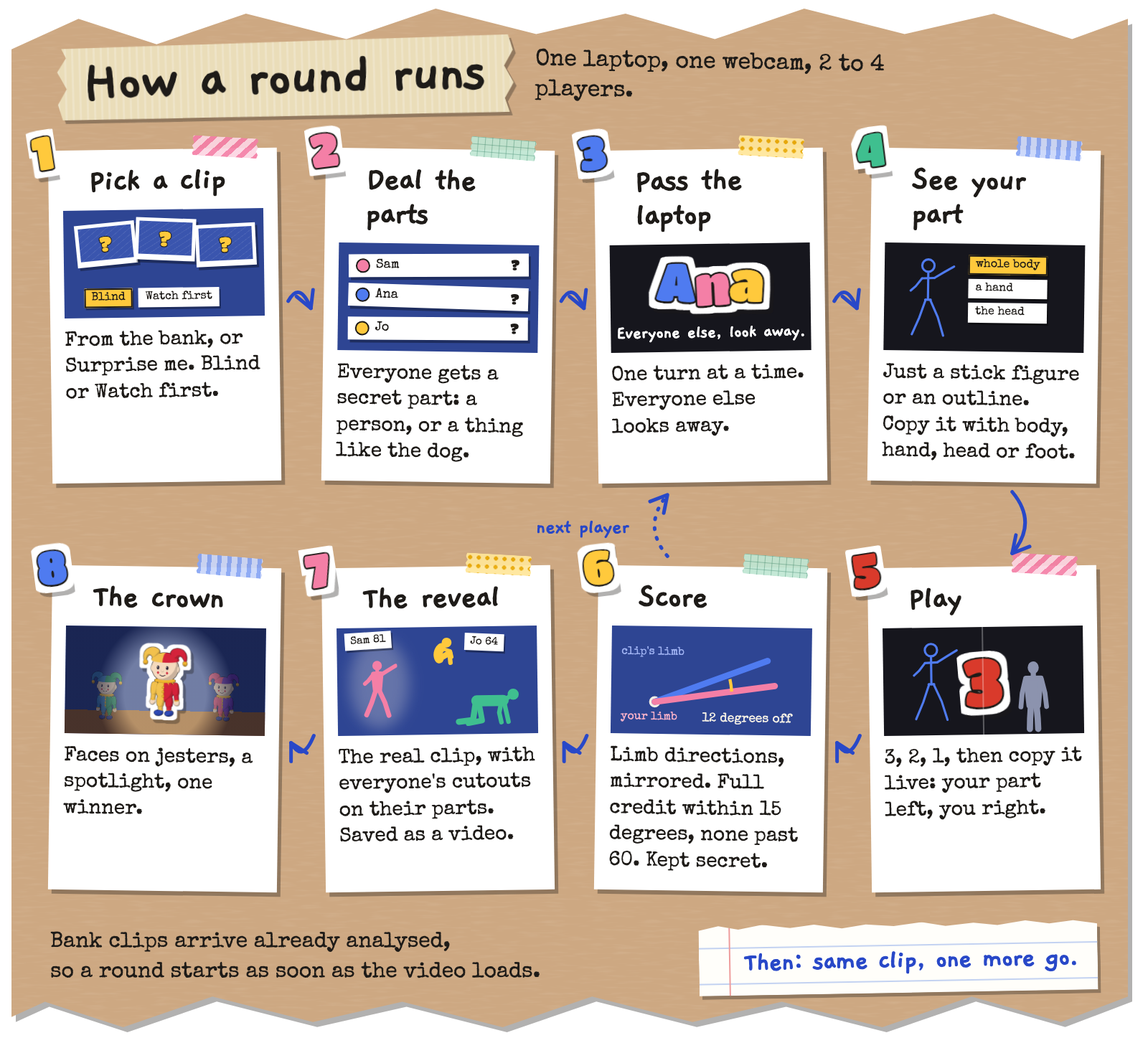
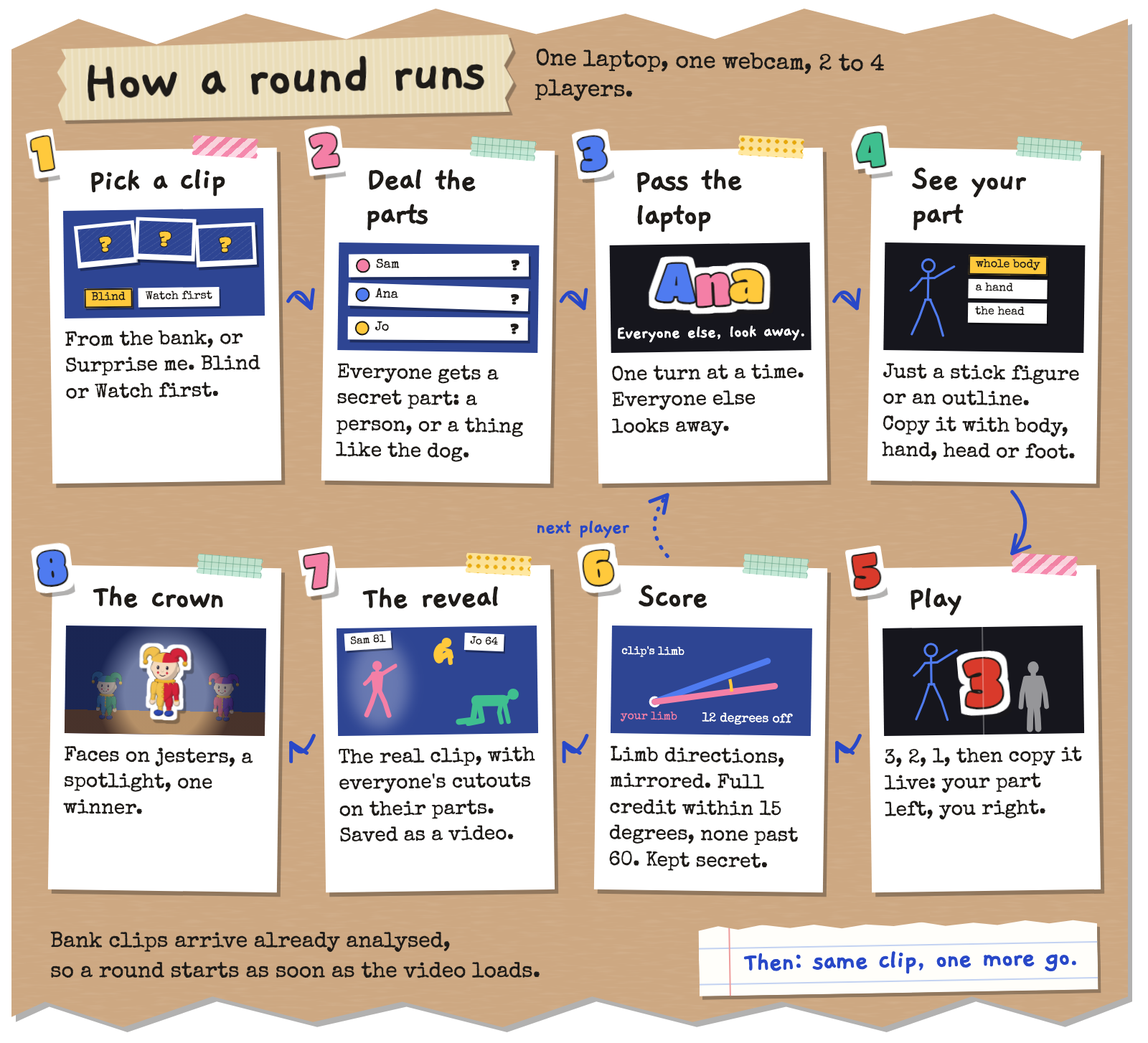
Devpost kit: follow docs/design/look-parts.md (no all caps, no new colours) and match main as of 9a97362 (online play, Engine 0.9.0, 249 tests)

diff --git a/app/public/devpost/preview.html b/app/public/devpost/preview.html
@@ -54,18 +54,19 @@
 <p>The second idea came from party games. What if nobody knows what they are copying until the end? You copy a stick figure, sure you are the dancer, and the reveal shows you were the dog. <mark title="Aaron: confirm or remove before pasting">[check]</mark></p>
 <p>And one honest line about who it is for: it gets a group of friends moving around one laptop, with no equipment beyond a webcam.</p>
 <p class="pic"><img src="heading-what.png" alt="What it does"></p>
-<ul><li><strong>Pick a clip</strong> from the video bank, or press Surprise me, and pick a mode: <strong>Blind</strong>, where nobody sees the clip until the end, or <strong>Watch first</strong>. <mark title="Aaron: confirm or remove before pasting">[check: which clips are in the live bank]</mark></li><li><strong>2 to 4 players</strong> type their names, and Jester deals each one a <strong>secret part</strong> of the clip: a person in it, or a thing like a dog or a ball. <mark title="Aaron: confirm or remove before pasting">[check: the live bank has clips with things in them]</mark></li><li><strong>Pass the laptop.</strong> &quot;Everyone else, look away.&quot; Each player sees only their part, drawn as a stick figure (a person) or an outline (a thing). They choose to copy it with their whole body, a hand, their head or a foot, and can watch it once before it counts.</li><li><strong>3, 2, 1, copy.</strong> The part plays on the left, the player's camera on the right. The clip can be slowed to 0.75 or 0.5 speed.</li><li><strong>The reveal.</strong> After a drum roll, the original clip plays, then plays again with every player's cutout drawn on their part, with names and scores. It is recorded in the browser as a video you can save or send.</li><li><strong>The crown.</strong> Each player's face goes on a jester, a spotlight sweeps across them, and the winner gets crowned.</li><li><strong>Submit your own clip.</strong> It goes into a review queue, and a person checks every clip before it joins the bank.</li></ul>
+<ul><li><strong>Pick a clip</strong> from the video bank, or press Surprise me, and pick a mode: <strong>Blind</strong>, where nobody sees the clip until the end, or <strong>Watch first</strong>. <mark title="Aaron: confirm or remove before pasting">[check: which clips are in the live bank]</mark></li><li><strong>2 to 4 players</strong> type their names, and Jester deals each one a <strong>secret part</strong> of the clip: a person in it, or a thing like a dog or a ball. <mark title="Aaron: confirm or remove before pasting">[check: the live bank has clips with things in them]</mark></li><li><strong>Pass the laptop.</strong> &quot;Everyone else, look away.&quot; Each player sees only their part, drawn as a stick figure (a person) or an outline (a thing). They choose to copy it with their whole body, a hand, their head or a foot, and can watch it once before it counts.</li><li><strong>3, 2, 1, copy.</strong> The part plays on the left, the player's camera on the right. The clip can be slowed to 0.75 or 0.5 speed.</li><li><strong>The reveal.</strong> After a drum roll, the original clip plays, then plays again with every player's cutout drawn on their part, with names and scores. It is recorded in the browser as a video you can save or send.</li><li><strong>The crown.</strong> Each player's face goes on a jester, a spotlight sweeps across them, and the winner gets crowned.</li><li><strong>Play with friends online.</strong> Make a room or join one with its 4-letter code. Each player plays their own part on their own device, and everyone gets the same reveal and results. Online rounds use our two built-in clips for now. <mark title="Aaron: confirm or remove before pasting">[check: tried between two devices]</mark></li><li><strong>Submit your own clip.</strong> It goes into a review queue, and a person checks every clip before it joins the bank.</li></ul>
 <p class="pic"><img src="diagram-round.png" alt="How a round runs, from picking a clip to the crown"></p>
+<p>Online, each player is on their own device, so step 3 is skipped.</p>
 <p class="pic"><img src="heading-how.png" alt="How we built it"></p>
 <p>Three parts, three owners, and one shared format agreed in the first hours: <code>pose-timeline/1</code>, 33 body points per frame with real time stamps. Everything runs in the browser.</p>
 <p><strong>The clip side (Aaron)</strong> turns a video into one guide per subject.</p>
 <p class="pic"><img src="diagram-clip-to-guide.png" alt="How a clip becomes a guide"></p>
 <ul><li>The file's SHA-256 is its name. A clip seen before loads its saved analysis from the browser, so the same clip always gives the same guide.</li><li>Frames are decoded at fixed times, 15 a second, with Mediabunny on WebCodecs. If the browser cannot decode the file, it falls back to stepping a video element.</li><li>MediaPipe Pose Landmarker finds up to 4 people in every frame, and each person's mask becomes an outline. Clips prepared for the bank also run an object detector (EfficientDet-Lite0) on every 6th frame to find animals and balls.</li><li>Boxes are linked into tracks by overlap. A camera cut ends every track, and a person hidden for up to 3 seconds is joined back up.</li><li>Tracks are ranked by size, how central they are, how much they move and their time on screen. A clip that cannot work is refused with a plain reason, such as &quot;No person found in this clip.&quot;</li><li>Clips in the bank are analysed once ahead of time, so a round starts as soon as the video loads.</li></ul>
 <p><strong>The player side (Lisa)</strong> reads the player from the webcam.</p>
-<ul><li>MediaPipe Pose Landmarker in video mode. It tries the GPU first, then the CPU, and drops to the lite model below 18 frames a second.</li><li>Hand Landmarker adds fingers to the mirror view. A One Euro filter smooths both.</li><li>The models are cached in the browser and start loading on the start screen.</li><li>Lisa also built the rooms and the recording behind the reveal video. <mark title="Aaron: confirm or remove before pasting">[check]</mark></li></ul>
+<ul><li>MediaPipe Pose Landmarker in video mode. It tries the GPU first, then the CPU, and drops to the lite model below 18 frames a second.</li><li>Hand Landmarker adds fingers to the mirror view. A One Euro filter smooths both.</li><li>The models are cached in the browser and start loading on the start screen.</li><li>Online rooms run over Supabase Realtime. Each device pings every 2 seconds, so a closed tab drops out after 10 seconds and the host role passes on, and every device starts the round at one time synced to the host's clock.</li><li>Lisa also built the recording behind the reveal video. <mark title="Aaron: confirm or remove before pasting">[check]</mark></li></ul>
 <p><strong>The scoring engine and the game (Alex)</strong> compare the two motions and run the round.</p>
 <ul><li>The blind game deals the parts, runs each turn and cuts out the body part each player played from the tracker's mask, about 15 times a second, for the reveal.</li></ul>
-<ul><li>It compares the directions of 16 limbs, not positions, so height, body size and distance from the camera do not matter. The player is mirrored.</li><li>A limb gets full credit within 15 degrees and none past 60.</li><li>Both timelines are resampled to 30 frames a second, and one reaction delay is found for the whole turn, from 0.2 seconds early to 1.2 seconds late.</li><li>The score is how much better you did than standing still would, scaled by timing. When the clip travels across the frame, a quarter of the score comes from where you are.</li><li>A limb the clip uses but your camera cannot see caps the score at 50.</li><li>Things, and single body parts, are scored on their path instead: how well your movement follows theirs, plus jumps, crouches and moves left or right.</li></ul>
+<ul><li>It compares the directions of 16 limbs, not positions, so height, body size and distance from the camera do not matter. The player is mirrored.</li><li>A limb gets full credit within 15 degrees and none past 60.</li><li>Both timelines are resampled to 30 frames a second, and one reaction delay is found for the whole turn, from 0.2 seconds early to 1.2 seconds late.</li><li>The score pays for accuracy above what standing still would earn. When you really move with the clip, accuracy itself counts too, so standing still still scores low. Timing scales the result, and when the clip travels across the frame, a quarter of the score comes from where you are.</li><li>A limb the clip uses but your camera cannot see caps the score at 50.</li><li>Things, and single body parts, are scored on their path instead: how well your movement follows theirs, plus jumps, crouches and moves left or right.</li></ul>
 <p><strong>The look (Aaron)</strong> is a scrapbook theatre. It has kraft paper, headings on masking tape, the jester's notes in blue ballpoint, ticket stubs for buttons, and a shoebox stood on its side as the stage. The jester himself is a 3D character built by a Python script in Blender and rendered to sprite strips in four colours. At the crown, each player's face, cropped from their own turn, goes on their jester.</p>
 <p class="pic"><img src="track-entertainment.png" alt="Main track: Entertainment"></p>
 <h3>Why Jester is entertainment</h3>
@@ -73,13 +74,13 @@
 <p class="pic"><img src="heading-stack.png" alt="Tech stack"></p>
 <table><thead><tr><th>Part</th><th>What we used</th></tr></thead><tbody><tr><td>Language and build</td><td>TypeScript 5.7, Vite 6</td></tr><tr><td>Body tracking</td><td>MediaPipe Tasks Vision 0.10.14: Pose Landmarker (lite, full), Hand Landmarker</td></tr><tr><td>Things in clips</td><td>MediaPipe Object Detector with EfficientDet-Lite0</td></tr><tr><td>Video decoding</td><td>Mediabunny on WebCodecs, with a video element fallback</td></tr><tr><td>Saved analyses</td><td>IndexedDB, keyed by the file's SHA-256</td></tr><tr><td>Reveal video</td><td>Canvas capture and MediaRecorder (WebM)</td></tr><tr><td>Clip submissions and rooms</td><td>Supabase (Storage, a table, Realtime)</td></tr><tr><td>Hosting</td><td>Vercel</td></tr><tr><td>The jester</td><td>Blender 5.2, scripted in Python, rendered with EEVEE</td></tr><tr><td>Fonts</td><td>Gaegu, Special Elite, Titan One (SIL Open Font License)</td></tr><tr><td>Tests</td><td>Node's built-in test runner</td></tr></tbody></table>
 <p class="pic"><img src="heading-challenges.png" alt="Challenges"></p>
-<ul><li><strong>Same clip in, same guide out.</strong> Our first stand-in read the clip from a playing video, timed by the wall clock, so the same file gave different guides. Now frames are decoded at fixed times and the analysis is saved under the file's fingerprint.</li><li><strong>One dancer, many tracks.</strong> People cross, turn and hide behind each other, and a tracker loses them. Early runs split one dancer into a pile of short tracks. Rejoining after gaps of up to 3 seconds, plus cut detection, fixed most of it. <mark title="Aaron: confirm or remove before pasting">[check]</mark></li><li><strong>Standing still must not score.</strong> A naive pose score gives points for doing nothing. The engine works out what standing still would earn on each clip and scores only what you add above it.</li><li><strong>Laptop cameras rarely see legs.</strong> Whole-body parts wait until you fit in frame. A hidden limb caps the score instead of being skipped, and you can choose to play a part with a hand, your head or a foot.</li><li><strong>Fast motion.</strong> At 15 frames a second, a sudden move can fall between frames. <mark title="Aaron: confirm or remove before pasting">[check]</mark></li><li><strong>Clips we are allowed to use.</strong> Most fun clips belong to someone else. No video lives in our repo, and the bank only takes clips that pass review. <mark title="Aaron: confirm or remove before pasting">[check]</mark></li></ul>
+<ul><li><strong>Same clip in, same guide out.</strong> Our first stand-in read the clip from a playing video, timed by the wall clock, so the same file gave different guides. Now frames are decoded at fixed times and the analysis is saved under the file's fingerprint.</li><li><strong>One dancer, many tracks.</strong> People cross, turn and hide behind each other, and a tracker loses them. Early runs split one dancer into a pile of short tracks. Rejoining after gaps of up to 3 seconds, plus cut detection, fixed most of it. <mark title="Aaron: confirm or remove before pasting">[check]</mark></li><li><strong>Standing still must not score, but moving must.</strong> A naive pose score gives points for doing nothing, so the engine scores only what you add above standing still. Then blind mode scored every player 0 on gentle dance clips, where standing still already matches most of the pose. Engine 0.9.0 measures how much you actually moved with the clip, and when you did, counts your accuracy directly.</li><li><strong>Laptop cameras rarely see legs.</strong> Whole-body parts wait until you fit in frame. A hidden limb caps the score instead of being skipped, and you can choose to play a part with a hand, your head or a foot.</li><li><strong>Fast motion.</strong> At 15 frames a second, a sudden move can fall between frames. <mark title="Aaron: confirm or remove before pasting">[check]</mark></li><li><strong>Clips we are allowed to use.</strong> Most fun clips belong to someone else. No video lives in our repo, and the bank only takes clips that pass review. <mark title="Aaron: confirm or remove before pasting">[check]</mark></li></ul>
 <p class="pic"><img src="heading-wins.png" alt="Accomplishments"></p>
-<ul><li>A clip nobody prepared becomes a playable level in the browser. No server ever analyses video.</li><li>Things count, not just people: a dog or a ball can be your secret part.</li><li>The reveal puts everyone's cutout on the original clip and records it to a video you can send.</li><li>235 automated tests pass: 104 on the clip side, 63 in the engine, 62 in our first prototype and 6 in the evaluation tools.</li><li>A jester host of our own, from a Blender script, who wears each player's face at the crown.</li></ul>
+<ul><li>A clip nobody prepared becomes a playable level in the browser. No server ever analyses video.</li><li>Things count, not just people: a dog or a ball can be your secret part.</li><li>The reveal puts everyone's cutout on the original clip and records it to a video you can send.</li><li>249 automated tests pass: 104 on the clip side, 71 in the engine, 66 in our first prototype and rooms, and 8 in the evaluation tools.</li><li>A jester host of our own, from a Blender script, who wears each player's face at the crown.</li></ul>
 <p class="pic"><img src="heading-learned.png" alt="What we learned"></p>
 <ul><li><strong>Measure with code, decide with rules.</strong> Every number in a guide comes from the tracker, so a score can be explained.</li><li><strong>Repeatable takes design.</strong> It took fixed decode times, a fingerprint and a saved analysis, not luck.</li><li><strong>Compare directions, not positions.</strong> It makes size and distance from the camera disappear.</li><li><strong>Agree on the data first.</strong> One shared pose format, settled early, let three people build three parts at the same time. <mark title="Aaron: confirm or remove before pasting">[check]</mark></li></ul>
 <p class="pic"><img src="heading-next.png" alt="What's next"></p>
-<ul><li><strong>An AI check for new clips.</strong> One vision model call per clip would name it, pick the main subject and word the refusals. It is designed, not built.</li><li><strong>Paste a link instead of a file.</strong> Grabbing a YouTube or Instagram clip from a browser tab already works on our lab page, but not yet in the game.</li><li><strong>Duels online.</strong> Head-to-head rounds over the internet are built on a lab page, not yet in the game.</li><li><strong>A bigger bank,</strong> filled by players through Submit your own.</li></ul>
+<ul><li><strong>An AI check for new clips.</strong> One vision model call per clip would name it, pick the main subject and word the refusals. It is designed, not built.</li><li><strong>Paste a link instead of a file.</strong> Grabbing a YouTube or Instagram clip from a browser tab already works on our lab page, but not yet in the game.</li><li><strong>Any clip online.</strong> Online rounds use our two built-in clips today; next is any clip from the bank.</li><li><strong>Duels.</strong> Head-to-head rounds, best of several, are built on a lab page, not yet in the game.</li><li><strong>A bigger bank,</strong> filled by players through Submit your own.</li></ul>
 <h2>Links</h2>
 <ul><li>Play it: <a href="https://jester-pi.vercel.app">https://jester-pi.vercel.app</a></li><li>Code: <a href="https://github.com/aaron-sulbaran/jester">https://github.com/aaron-sulbaran/jester</a></li><li>Demo video: <mark title="Aaron: confirm or remove before pasting">[check: paste the YouTube link]</mark></li></ul>
 <h2>Credits</h2>

diff --git a/art/devpost/diagram-round.html b/art/devpost/diagram-round.html
@@ -13,10 +13,10 @@
   .card h2 { font-size: 48px; }
   .card p { font-size: 28px; }
   .card .art { height: 150px; }
-  .sil { position: absolute; color: #F3EEE4; }
+  .sil { position: absolute; color: var(--paper); }
   .sil svg { display: block; width: 100%; height: 100%; overflow: visible; }
   .mini { position: absolute; width: 30%; padding: 5px 5px 8px; background: var(--photo); box-shadow: 3px 4px 0 rgba(0,0,0,.35); }
-  .mini i { display: grid; place-items: center; aspect-ratio: 16 / 10; background: #3A55AE repeating-linear-gradient(-35deg, transparent 0 6px, rgba(255,255,255,.08) 6px 7px); font: 400 28px/1 var(--sticker); font-style: normal; color: var(--ticket); -webkit-text-stroke: 3px var(--ink); paint-order: stroke fill; }
+  .mini i { display: grid; place-items: center; aspect-ratio: 16 / 10; background: var(--backdrop) repeating-linear-gradient(-35deg, transparent 0 6px, rgba(255,255,255,.08) 6px 7px); font: 400 28px/1 var(--sticker); font-style: normal; color: var(--ticket); -webkit-text-stroke: 3px var(--ink); paint-order: stroke fill; }
   .chips { position: absolute; display: flex; gap: 8px; }
   .chips span { padding: 4px 10px; background: var(--photo); font: 400 16px/1.2 var(--type); box-shadow: 2px 3px 0 rgba(0,0,0,.35); white-space: nowrap; }
   .chips span.on { background: var(--ticket); box-shadow: 2px 3px 0 rgba(0,0,0,.35), inset 0 0 0 2px var(--ink); }
@@ -27,7 +27,7 @@
   .look-away { position: absolute; left: 0; right: 0; bottom: 14px; text-align: center; font: 700 26px/1 var(--hand); color: var(--photo); letter-spacing: -.03em; }
   .count { position: absolute; left: 50%; top: 50%; translate: -50% -50%; font: 400 92px/1 var(--sticker); color: var(--stamp); -webkit-text-stroke: 6px var(--ink); paint-order: stroke fill; filter: url(#die-cut); rotate: -4deg; }
   .split::after { content: ""; position: absolute; top: 0; bottom: 0; left: calc(50% - 1px); width: 2px; background: rgba(255,255,255,.3); }
-  .blur { position: absolute; border-radius: 50%; background: rgba(243, 238, 228, .28); filter: blur(10px); }
+  .blur { position: absolute; border-radius: 50%; background: rgba(255, 255, 255, .28); filter: blur(10px); }
   .score-tag { position: absolute; padding: 2px 8px; background: var(--photo); font: 400 15px/1.3 var(--type); white-space: nowrap; box-shadow: 2px 3px 0 rgba(0,0,0,.35); }
   .spot { position: absolute; inset: 0; background: radial-gradient(ellipse 34% 70% at 50% 62%, rgba(255, 244, 200, .32) 0 60%, rgba(10, 12, 30, .55) 100%); }
   .crown-j { position: absolute; top: -14px; width: 150px; left: calc(50% - 75px); filter: url(#sticker); }
@@ -120,7 +120,7 @@
     </section>
 
     <section class="card" data-n="4" style="grid-row:1;grid-column:4">
-      <span class="num" style="--c:var(--p4)">4</span><i class="washi w-blue"></i>
+      <span class="num" style="--c:var(--p4)">4</span><i class="washi w-mint"></i>
       <h2>See your part</h2>
       <div class="art" style="background:#16161D">
         <span class="sil" style="left:8%;top:8%;width:28%;height:84%;color:var(--p2)"><svg><use href="#stick" /></svg></span>
@@ -134,7 +134,7 @@
       <h2>Play</h2>
       <div class="art split" style="background:#16161D">
         <span class="sil" style="left:10%;top:8%;width:28%;height:84%;color:var(--p2)"><svg><use href="#stick" /></svg></span>
-        <span class="sil" style="left:62%;top:12%;width:26%;height:96%;color:#8C93AE"><svg><use href="#player" /></svg></span>
+        <span class="sil" style="left:62%;top:12%;width:26%;height:96%;color:var(--photo);opacity:.55"><svg><use href="#player" /></svg></span>
         <span class="count">3</span>
       </div>
       <p>3, 2, 1, then copy it live: your part left, you right.</p>
@@ -145,13 +145,13 @@
       <h2>Score</h2>
       <div class="art">
         <svg viewBox="0 0 320 150" style="position:absolute;inset:0;width:100%;height:100%">
-          <circle cx="70" cy="110" r="9" fill="#F3EEE4"/>
+          <circle cx="70" cy="110" r="9" fill="#FFFEFA"/>
           <path d="M70 110 L250 42" stroke="#4F7BF0" stroke-width="10" stroke-linecap="round"/>
           <path d="M70 110 L262 82" stroke="#F47FA6" stroke-width="10" stroke-linecap="round"/>
           <path d="M190 72 A 124 124 0 0 1 193 92" fill="none" stroke="#FFC93C" stroke-width="5"/>
-          <text x="146" y="140" style="font: 400 20px 'Special Elite'; fill: #F3EEE4">12 degrees off</text>
-          <text x="16" y="34" style="font: 400 18px 'Special Elite'; fill: #9FB2F2">clip's limb</text>
-          <text x="16" y="138" style="font: 400 18px 'Special Elite'; fill: #F7B1C9">your limb</text>
+          <text x="146" y="140" style="font: 400 20px 'Special Elite'; fill: #FFFEFA">12 degrees off</text>
+          <text x="16" y="34" style="font: 400 18px 'Special Elite'; fill: #FFFEFA">clip's limb</text>
+          <text x="16" y="138" style="font: 400 18px 'Special Elite'; fill: #F47FA6">your limb</text>
         </svg>
       </div>
       <p>Limb directions, mirrored. Full credit within 15 degrees, none past 60. Kept secret.</p>
@@ -172,7 +172,7 @@
     </section>
 
     <section class="card" data-n="8" style="grid-row:2;grid-column:1">
-      <span class="num" style="--c:var(--p2)">8</span><i class="washi w-blue"></i>
+      <span class="num" style="--c:var(--p2)">8</span><i class="washi w-mint"></i>
       <h2>The crown</h2>
       <div class="art" style="background:var(--backdrop) linear-gradient(transparent 78%, #93613A 78%)">
         <img class="side-j" style="left:2%" src="../../app/public/look/jester/alex-still.webp" alt="" />

diff --git a/art/devpost/heading.html b/art/devpost/heading.html
@@ -45,7 +45,7 @@
   .s-challenges .problem { position: absolute; padding: 12px 20px; background: var(--photo); color: var(--stamp); box-shadow: var(--lift); font: 400 26px/1.2 var(--type); white-space: nowrap; }
   .s-challenges .p1 { right: 96px; top: 40px; rotate: 3deg; }
   .s-challenges .p2 { right: 130px; top: 134px; rotate: -2.5deg; }
-  .s-challenges .stampmark { position: absolute; right: 455px; top: 62px; white-space: nowrap; rotate: -12deg; padding: 6px 16px 4px; border: 5px solid var(--stamp); border-radius: 8px; color: var(--stamp); font: 400 38px/1 var(--sticker); letter-spacing: .04em; opacity: .9; }
+  .s-challenges .stampmark { position: absolute; right: 455px; top: 62px; white-space: nowrap; rotate: -12deg; padding: 6px 16px 6px; border: 5px solid var(--stamp); border-radius: 8px; color: var(--stamp); font: 400 40px/1 var(--sticker); opacity: .9; }
 
   /* Accomplishments: the score sticker everyone chases. */
   .s-wins .score { position: absolute; right: 110px; top: 44px; rotate: 6deg; font-size: 124px; }
@@ -80,21 +80,21 @@
     what: { act: "Act 2", title: "What it does", tapes: ["w-mint", "w-pink"], prop: `
       <div class="scrap note-wrap"><p class="note">Copy me.<br>I'm watching.</p></div>
       <div class="puppet"><span class="stick"></span><img src="../../app/public/look/jester/classic-still.webp" alt="" /></div>` },
-    how: { act: "Act 3", title: "How we built it", tapes: ["w-dots", "w-blue"], prop: `
+    how: { act: "Act 3", title: "How we built it", tapes: ["w-dots", "w-mint"], prop: `
       <div class="parts">
         <span class="tag" style="font-size:26px"><i class="dot" style="--c:var(--p3)"></i>the clip side</span>
         <span class="tag" style="font-size:26px"><i class="dot" style="--c:var(--p1)"></i>the player side</span>
         <span class="tag" style="font-size:26px"><i class="dot" style="--c:var(--p2)"></i>the scoring engine</span>
       </div>` },
-    stack: { act: "Act 4", title: "Tech stack", tapes: ["w-blue", "w-mint"], prop: `
+    stack: { act: "Act 4", title: "Tech stack", tapes: ["w-pink", "w-mint"], prop: `
       <div class="pile">
         <span class="tag" style="left:250px;top:8px;rotate:4deg">MediaPipe</span>
         <span class="tag" style="left:30px;top:30px;rotate:-5deg">TypeScript</span>
         <span class="tag" style="left:120px;top:110px;rotate:2deg">WebCodecs</span>
         <span class="tag" style="left:340px;top:100px;rotate:-3deg">Supabase</span>
       </div>` },
-    challenges: { act: "Act 5", title: "Challenges", tapes: ["w-pink", "w-blue"], prop: `
-      <span class="stampmark">TRY AGAIN</span>
+    challenges: { act: "Act 5", title: "Challenges", tapes: ["w-pink", "w-dots"], prop: `
+      <span class="stampmark">Try again</span>
       <span class="problem p1">That did not work.</span>
       <span class="problem p2">No person found in this clip.</span>` },
     wins: { act: "Act 6", title: "Accomplishments", tapes: ["w-dots", "w-pink"], prop: `
@@ -102,8 +102,8 @@
       <span class="score big-sticker">100%</span>` },
     learned: { act: "Act 7", title: "What we learned", tapes: ["w-mint", "w-dots"], prop: `
       <div class="scrap note-wrap"><p class="note">Same clip in,<br>same guide out.</p></div>` },
-    next: { act: "Act 8", title: "What's next", tapes: ["w-blue", "w-pink"], prop: `
-      <div class="ticket-wrap"><div class="ticket"><span><small>ADMIT ONE</small>Next show</span><i class="stub"></i></div></div>` },
+    next: { act: "Act 8", title: "What's next", tapes: ["w-mint", "w-pink"], prop: `
+      <div class="ticket-wrap"><div class="ticket"><span><small>Admit one</small>Next show</span><i class="stub"></i></div></div>` },
   };
   const key = new URLSearchParams(location.search).get("s") || "inspiration";
   const s = SECTIONS[key];

diff --git a/art/devpost/diagram-guide.html b/art/devpost/diagram-guide.html
@@ -10,14 +10,14 @@
   body { width: 1600px; }
   .cards { grid-template-columns: repeat(3, 1fr); gap: 110px 90px; }
   .ink { color: var(--photo); }
-  .sil { position: absolute; color: #F3EEE4; }
+  .sil { position: absolute; color: var(--paper); }
   .sil svg, .art svg.full { display: block; width: 100%; height: 100%; overflow: visible; }
   .ring { filter: url(#ring); }
   .hash { position: absolute; left: 16px; bottom: 12px; padding: 6px 12px; background: var(--photo); font: 400 19px/1 var(--type); rotate: -2deg; box-shadow: 3px 4px 0 rgba(0,0,0,.35); }
   .saved { position: absolute; right: 14px; top: 14px; rotate: 8deg; padding: 4px 12px 2px; border: 4px solid var(--ticket); border-radius: 6px; color: var(--ticket); font: 400 24px/1 var(--sticker); }
   /* Film strip */
   .strip { position: absolute; inset: 18px 0; background: #16161D; display: flex; gap: 10px; padding: 22px 12px; }
-  .strip::before, .strip::after { content: ""; position: absolute; left: 0; right: 0; height: 12px; background: radial-gradient(circle, #F3EEE4 3px, transparent 3.5px) 0 0 / 18px 12px; }
+  .strip::before, .strip::after { content: ""; position: absolute; left: 0; right: 0; height: 12px; background: radial-gradient(circle, var(--paper) 3px, transparent 3.5px) 0 0 / 18px 12px; }
   .strip::before { top: 4px; } .strip::after { bottom: 4px; }
   .strip i { position: relative; flex: 1; background: var(--backdrop); }
   .strip i .sil { inset: 8% 18%; }
@@ -92,7 +92,7 @@
         <span class="sil" style="left:44%;top:6%;width:13%;height:24%"><svg><use href="#ball" /></svg></span>
         <span class="sil" style="left:50%;top:44%;width:42%;height:46%"><svg><use href="#dog" /></svg></span>
         <span class="hash">sha-256 9f3c 81ab 0e57...</span>
-        <span class="saved">SEEN IT</span>
+        <span class="saved">Seen it</span>
       </div>
       <p>The file's SHA-256. A clip seen before loads its saved analysis: same clip, same guide.</p>
     </section>
@@ -116,17 +116,17 @@
       <span class="num" style="--c:var(--p2)">3</span><i class="washi w-mint"></i>
       <h2>Find</h2>
       <div class="art">
-        <span class="sil" style="left:10%;top:14%;width:24%;height:80%;color:#7B8BC4"><svg><use href="#throw" /></svg></span>
+        <span class="sil" style="left:10%;top:14%;width:24%;height:80%;color:var(--photo);opacity:.4"><svg><use href="#throw" /></svg></span>
         <span class="sil" style="left:10%;top:14%;width:24%;height:80%;color:var(--p1)"><svg><use href="#stick" /></svg></span>
         <span class="bx" style="--c:var(--p1);left:6%;top:24%;width:32%;height:72%"><b>person 1</b></span>
-        <span class="sil" style="left:50%;top:42%;width:42%;height:46%;color:#7B8BC4"><svg><use href="#dog" /></svg></span>
+        <span class="sil" style="left:50%;top:42%;width:42%;height:46%;color:var(--photo);opacity:.4"><svg><use href="#dog" /></svg></span>
         <span class="bx" style="--c:var(--p4);left:48%;top:42%;width:46%;height:50%"><b>dog</b></span>
       </div>
       <p>MediaPipe finds up to 4 people in every frame. Bank clips also look for animals and balls.</p>
     </section>
 
     <section class="card" data-n="4" style="grid-row:2;grid-column:3">
-      <span class="num" style="--c:var(--p4)">4</span><i class="washi w-blue"></i>
+      <span class="num" style="--c:var(--p4)">4</span><i class="washi w-mint"></i>
       <h2>Follow</h2>
       <div class="art">
         <svg class="full" viewBox="0 0 400 170" preserveAspectRatio="none" style="position:absolute;inset:0">

diff --git a/art/devpost/track.html b/art/devpost/track.html
@@ -16,7 +16,7 @@
   .ticket .stub { right: 30px; width: 170px; background-size: 96px auto; }
   .ticket .stub b { position: absolute; left: 0; right: 0; bottom: 14px; text-align: center; font: 400 20px/1 var(--type); }
   .words { display: grid; gap: 4px; min-width: 0; }
-  .kicker { font: 400 28px/1 var(--type); letter-spacing: .06em; text-transform: uppercase; }
+  .kicker { font: 400 30px/1 var(--type); }
   .name { margin: 0; font: 400 96px/1 var(--sticker); padding: 2px 6px 10px; white-space: nowrap; }
   .line { font: 400 24px/1.2 var(--type); }
   .puppet { right: 52px; top: 6px; width: 262px; height: 262px; rotate: 4deg; }
@@ -31,7 +31,7 @@
     <h1 class="name"><span data-letters="Entertainment" data-param="name"></span></h1>
     <span class="line" data-param="line">HackPrinceton Fall 2026</span>
   </div>
-  <i class="stub"><b>ADMIT ONE</b></i>
+  <i class="stub"><b>Admit one</b></i>
 </div></div>
 <i class="washi w-pink w1"></i><i class="washi w-dots w2"></i>
 <div class="puppet"><span class="stick"></span><img src="../../app/public/look/jester/classic-still.webp" alt="" /></div>

diff --git a/art/devpost/devpost.css b/art/devpost/devpost.css
@@ -25,7 +25,6 @@
   --floor-c: #93613A;
   --backdrop: #2E4593;
   --wood: #EDCB8E;
-  --soft: #6B5A48;
   --hand: "Gaegu", "Comic Sans MS", cursive;
   --type: "Special Elite", "Courier New", serif;
   --sticker: "Titan One", "Arial Black", sans-serif;
@@ -57,7 +56,6 @@ body { background: #FFFFFF; color: var(--ink); font: 400 22px/1.35 var(--type); 
 .w-pink { background: repeating-linear-gradient(-45deg, #F47FA6 0 7px, #FCD5E2 7px 15px); }
 .w-mint { background-color: #BFE6D3; background-image: linear-gradient(rgba(36, 120, 88, .38) 1.5px, transparent 1.5px), linear-gradient(90deg, rgba(36, 120, 88, .38) 1.5px, transparent 1.5px); background-size: 10px 10px; }
 .w-dots { background: #FFE69A radial-gradient(circle, #E9A800 2.6px, transparent 3.1px) 0 0 / 12px 12px; }
-.w-blue { background: #C9D6FA repeating-linear-gradient(90deg, rgba(79, 123, 240, .55) 0 6px, transparent 6px 14px); }
 
 /* ---------- Masking tape heading, in marker ---------- */
 .masking { position: relative; display: inline-block; filter: drop-shadow(4px 5px 0 var(--shade)); rotate: -1.5deg; }

diff --git a/docs/devpost/story.md b/docs/devpost/story.md
@@ -20,9 +20,12 @@ And one honest line about who it is for: it gets a group of friends moving aroun
 - **3, 2, 1, copy.** The part plays on the left, the player's camera on the right. The clip can be slowed to 0.75 or 0.5 speed.
 - **The reveal.** After a drum roll, the original clip plays, then plays again with every player's cutout drawn on their part, with names and scores. It is recorded in the browser as a video you can save or send.
 - **The crown.** Each player's face goes on a jester, a spotlight sweeps across them, and the winner gets crowned.
+- **Play with friends online.** Make a room or join one with its 4-letter code. Each player plays their own part on their own device, and everyone gets the same reveal and results. Online rounds use our two built-in clips for now. [check: tried between two devices]
 - **Submit your own clip.** It goes into a review queue, and a person checks every clip before it joins the bank.
 
 ![How a round runs, from picking a clip to the crown](https://jester-pi.vercel.app/devpost/diagram-round.png)
+
+Online, each player is on their own device, so step 3 is skipped.
 
 ![How we built it](https://jester-pi.vercel.app/devpost/heading-how.png)
 
@@ -44,7 +47,8 @@ Three parts, three owners, and one shared format agreed in the first hours: `pos
 - MediaPipe Pose Landmarker in video mode. It tries the GPU first, then the CPU, and drops to the lite model below 18 frames a second.
 - Hand Landmarker adds fingers to the mirror view. A One Euro filter smooths both.
 - The models are cached in the browser and start loading on the start screen.
-- Lisa also built the rooms and the recording behind the reveal video. [check]
+- Online rooms run over Supabase Realtime. Each device pings every 2 seconds, so a closed tab drops out after 10 seconds and the host role passes on, and every device starts the round at one time synced to the host's clock.
+- Lisa also built the recording behind the reveal video. [check]
 
 **The scoring engine and the game (Alex)** compare the two motions and run the round.
 
@@ -53,7 +57,7 @@ Three parts, three owners, and one shared format agreed in the first hours: `pos
 - It compares the directions of 16 limbs, not positions, so height, body size and distance from the camera do not matter. The player is mirrored.
 - A limb gets full credit within 15 degrees and none past 60.
 - Both timelines are resampled to 30 frames a second, and one reaction delay is found for the whole turn, from 0.2 seconds early to 1.2 seconds late.
-- The score is how much better you did than standing still would, scaled by timing. When the clip travels across the frame, a quarter of the score comes from where you are.
+- The score pays for accuracy above what standing still would earn. When you really move with the clip, accuracy itself counts too, so standing still still scores low. Timing scales the result, and when the clip travels across the frame, a quarter of the score comes from where you are.
 - A limb the clip uses but your camera cannot see caps the score at 50.
 - Things, and single body parts, are scored on their path instead: how well your movement follows theirs, plus jumps, crouches and moves left or right.
 
@@ -88,7 +92,7 @@ Three parts, three owners, and one shared format agreed in the first hours: `pos
 
 - **Same clip in, same guide out.** Our first stand-in read the clip from a playing video, timed by the wall clock, so the same file gave different guides. Now frames are decoded at fixed times and the analysis is saved under the file's fingerprint.
 - **One dancer, many tracks.** People cross, turn and hide behind each other, and a tracker loses them. Early runs split one dancer into a pile of short tracks. Rejoining after gaps of up to 3 seconds, plus cut detection, fixed most of it. [check]
-- **Standing still must not score.** A naive pose score gives points for doing nothing. The engine works out what standing still would earn on each clip and scores only what you add above it.
+- **Standing still must not score, but moving must.** A naive pose score gives points for doing nothing, so the engine scores only what you add above standing still. Then blind mode scored every player 0 on gentle dance clips, where standing still already matches most of the pose. Engine 0.9.0 measures how much you actually moved with the clip, and when you did, counts your accuracy directly.
 - **Laptop cameras rarely see legs.** Whole-body parts wait until you fit in frame. A hidden limb caps the score instead of being skipped, and you can choose to play a part with a hand, your head or a foot.
 - **Fast motion.** At 15 frames a second, a sudden move can fall between frames. [check]
 - **Clips we are allowed to use.** Most fun clips belong to someone else. No video lives in our repo, and the bank only takes clips that pass review. [check]
@@ -98,7 +102,7 @@ Three parts, three owners, and one shared format agreed in the first hours: `pos
 - A clip nobody prepared becomes a playable level in the browser. No server ever analyses video.
 - Things count, not just people: a dog or a ball can be your secret part.
 - The reveal puts everyone's cutout on the original clip and records it to a video you can send.
-- 235 automated tests pass: 104 on the clip side, 63 in the engine, 62 in our first prototype and 6 in the evaluation tools.
+- 249 automated tests pass: 104 on the clip side, 71 in the engine, 66 in our first prototype and rooms, and 8 in the evaluation tools.
 - A jester host of our own, from a Blender script, who wears each player's face at the crown.
 
 ![What we learned](https://jester-pi.vercel.app/devpost/heading-learned.png)
@@ -112,7 +116,8 @@ Three parts, three owners, and one shared format agreed in the first hours: `pos
 
 - **An AI check for new clips.** One vision model call per clip would name it, pick the main subject and word the refusals. It is designed, not built.
 - **Paste a link instead of a file.** Grabbing a YouTube or Instagram clip from a browser tab already works on our lab page, but not yet in the game.
-- **Duels online.** Head-to-head rounds over the internet are built on a lab page, not yet in the game.
+- **Any clip online.** Online rounds use our two built-in clips today; next is any clip from the bank.
+- **Duels.** Head-to-head rounds, best of several, are built on a lab page, not yet in the game.
 - **A bigger bank,** filled by players through Submit your own.
 
 ## Links

diff --git a/docs/devpost/checklist.md b/docs/devpost/checklist.md
@@ -12,7 +12,7 @@ Our submit target is **7:30 AM Sunday**; Devpost closes at 8:30 AM.
    - https://jester-pi.vercel.app/devpost/track-entertainment.png
    - https://jester-pi.vercel.app/devpost/diagram-round.png and diagram-clip-to-guide.png
 2. Open https://jester-pi.vercel.app/devpost/preview.html and read the story top to bottom.
-3. Every line marked `[check]` (yellow in the preview) is one I could not confirm from the code. Confirm it, reword it or delete it, and remove the marker. There are 11.
+3. Every line marked `[check]` (yellow in the preview) is one I could not confirm from the code. Confirm it, reword it or delete it, and remove the marker. There are 12.
 
 ## 2. The fields
 
